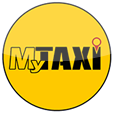
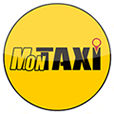
Name Change + Up to v1.4.5

diff --git a/home.html b/home.html
@@ -3,7 +3,7 @@
     <head>
     <meta http-equiv="Content-Type" content="text/html; charset=utf-8" />
     <meta http-equiv="CONTENT-LANGUAGE" content="French">
-    <title>MyTaxi Corp by TaxiMedia</title>
+    <title>MonTaxi Corp by TaxiMedia</title>
     <link type="image/x-icon" href="visuels/favicon.ico" rel="icon"/>
     <link type="image/x-icon" href="visuels/favicon.ico" rel="shortcut icon"/>
     <link rel="apple-touch-icon" href="visuels/idev.favicon.png"/>
@@ -70,7 +70,7 @@
               <li><a href="#directions_map" data-transition="slide" class="ui-btn ui-btn-icon-left ui-icon-location"><b>Carte GPS</b></a></li>
               <li><a href="#" onClick="help()" data-transition="slide" class="ui-btn ui-btn-icon-left ui-icon-bullets"><b>Aide utilisateur</b></a></li>
               <li><a href="#" onClick="taximedia()" data-transition="slide" class="ui-btn ui-btn-icon-left ui-icon-eye"><b>TaxiMedia.fr</b></a></li>
-              <li><a href="#infos" data-transition="slide" class="ui-btn ui-btn-icon-left ui-icon-info"><b>Infos myTaxi</b></a></li>
+              <li><a href="#infos" data-transition="slide" class="ui-btn ui-btn-icon-left ui-icon-info"><b>Infos monTaxi</b></a></li>
               <li><a href="#" onClick="myTaxiDown()" data-transition="slide" class="ui-btn ui-btn-icon-left ui-icon-action"><b>Envoyer une course</b></a></li>
               <li><a href="#" onClick="goScan()" data-transition="slide" class="ui-btn ui-btn-icon-left ui-icon-camera"><b>Scanner un code</b></a></li>
               <li><a href="#" onClick="contactShare()" data-transition="slide" class="ui-btn ui-btn-icon-left ui-icon-mail"><b>Envoyer l&rsquo;app</b></a></li>
@@ -135,7 +135,7 @@
 					<a href="#infos" data-transition="slide" style="width:32%;display:inline-block;">
                     	<p style="font-size: x-small;color:#FFF;">
                             <img src="visuels/infos.png" width="90%"/><br>
-                            Infos myTaxi
+                            Infos monTaxi
                         </p>
                     </a>
 					<a href="#" onClick="taximedia()" data-transition="slide" style="width:32%;display:inline-block;">
@@ -180,7 +180,7 @@
                 <a href="#homepanel" id="homepanel_poper"></a>
             </div>
             <div data-theme="a" data-role="footer" id="footer_cont0" data-position="fixed">
-				<div class="ui-bar-b ui-corner-all ui-shadow" style="width:96%;height:19px;"><marquee><b>Mise &agrave; jour des informations myTaxi en cours.</b></marquee></div>
+				<div class="ui-bar-b ui-corner-all ui-shadow" style="width:96%;height:19px;"><marquee><b>Mise &agrave; jour des informations monTaxi en cours.</b></marquee></div>
                 <p class="copyright" style="font-size:xx-small">&copy; 2012 - </p>
             </div>
         </div>
@@ -253,7 +253,7 @@
                 -->
             </div>
             <div data-theme="a" data-role="footer" id="footer_cont1" data-position="fixed">
-				<div class="ui-bar-b ui-corner-all ui-shadow" style="width:96%;height:19px;"><marquee><b>Mise &agrave; jour des informations myTaxi en cours.</b></marquee></div>
+				<div class="ui-bar-b ui-corner-all ui-shadow" style="width:96%;height:19px;"><marquee><b>Mise &agrave; jour des informations monTaxi en cours.</b></marquee></div>
                 <p class="copyright" style="font-size:xx-small">&copy; 2012 - </p>
             </div>
         </div>
@@ -285,7 +285,7 @@
                 </div>
             </div>
             <div data-theme="a" data-role="footer" id="footer_cont2" data-position="fixed">
-				<div class="ui-bar-b ui-corner-all ui-shadow" style="width:96%;height:19px;"><marquee><b>Mise &agrave; jour des informations myTaxi en cours.</b></marquee></div>
+				<div class="ui-bar-b ui-corner-all ui-shadow" style="width:96%;height:19px;"><marquee><b>Mise &agrave; jour des informations monTaxi en cours.</b></marquee></div>
                 <p class="copyright" style="font-size:xx-small">&copy; 2012 - </p>
             </div>
         </div>
@@ -326,14 +326,14 @@
 					<a href="#infos" data-transition="slide" style="width:32%;display:inline-block;">
                     	<p style="font-size: x-small;color:#FFF;">
                             <img src="visuels/infos.png" width="90%"/><br>
-                            Infos myTaxi
+                            Infos monTaxi
                         </p>
                     </a>
                 </div>
                 <div class="cleaner"></div>
             </div>
             <div data-theme="a" data-role="footer" id="footer_cont3" data-position="fixed">
-				<div class="ui-bar-b ui-corner-all ui-shadow" style="width:96%;height:19px;"><marquee><b>Mise &agrave; jour des informations myTaxi en cours.</b></marquee></div>
+				<div class="ui-bar-b ui-corner-all ui-shadow" style="width:96%;height:19px;"><marquee><b>Mise &agrave; jour des informations monTaxi en cours.</b></marquee></div>
                 <p class="copyright" style="font-size:xx-small">&copy; 2012 - </p>
             </div>
         </div>
@@ -355,7 +355,7 @@
                </div>
             </div>
             <div data-theme="a" data-role="footer" id="footer_cont4" data-position="fixed">
-				<div class="ui-bar-b ui-corner-all ui-shadow" style="width:96%;height:19px;"><marquee><b>Mise &agrave; jour des informations myTaxi en cours.</b></marquee></div>
+				<div class="ui-bar-b ui-corner-all ui-shadow" style="width:96%;height:19px;"><marquee><b>Mise &agrave; jour des informations monTaxi en cours.</b></marquee></div>
                 <p class="copyright" style="font-size:xx-small">&copy; 2012 - </p>
             </div>
         </div>
@@ -377,7 +377,7 @@
                </div>
             </div>
             <div data-theme="a" data-role="footer" id="footer_cont5" data-position="fixed">
-				<div class="ui-bar-b ui-corner-all ui-shadow" style="width:96%;height:19px;"><marquee><b>Mise &agrave; jour des informations myTaxi en cours.</b></marquee></div>
+				<div class="ui-bar-b ui-corner-all ui-shadow" style="width:96%;height:19px;"><marquee><b>Mise &agrave; jour des informations monTaxi en cours.</b></marquee></div>
                 <p class="copyright" style="font-size:xx-small">&copy; 2012 - </p>
             </div>
         </div>
@@ -393,7 +393,7 @@
                 <div id="infos_cont"></div>
             </div>
             <div data-theme="a" data-role="footer" id="footer_cont6" data-position="fixed">
-				<div class="ui-bar-b ui-corner-all ui-shadow" style="width:96%;height:19px;"><marquee><b>Mise &agrave; jour des informations myTaxi en cours.</b></marquee></div>
+				<div class="ui-bar-b ui-corner-all ui-shadow" style="width:96%;height:19px;"><marquee><b>Mise &agrave; jour des informations monTaxi en cours.</b></marquee></div>
                 <p class="copyright" style="font-size:xx-small">&copy; 2012 - </p>
             </div>
         </div>
@@ -425,9 +425,9 @@
                                 </select>
                                 <input type="text" id="nom" name="nom" data-clear-btn="true" placeholder="Nom" maxlength="60" size="20" value="">
                                 <input type="text" id="prenom" name="prenom" data-clear-btn="true" placeholder="Pr&eacute;nom" maxlength="60" size="20" value="">
-                                <input type="tel" name="taxi" id="taxi" placeholder="Num&eacute;ro de taxi" maxlength="6" size="20" class="required">
+                                <input type="tel" name="taxi" id="taxi" placeholder="ADS (N&deg taxi)" maxlength="6" size="20" class="required">
                                 <input type="tel" name="tel" id="tel" placeholder="T&eacute;l&eacute;phone (Sans espace SVP)" maxlength="10" size="20" class="required"><em></em>
-                                <!-- <input type="tel" name="siret" placeholder="N&deg; SIRET (14 chiffres sans espace SVP)" maxlength="14" size="20" class="required"><em></em> -->
+                                <input type="text" name="cpro" id="cpro" placeholder="N&deg; Carte Professionnelle" maxlength="32" size="20" class="required"><em></em>
                                 <input type="tel" name="station" id="station" placeholder="CP Commune Rattachement" maxlength="5" size="20" class="required"><em></em>
                                 <select name="type" id="type">
                                     <option selected value="Berline">Type de vehicule</option>
@@ -610,7 +610,7 @@
                         </div>
                         <div data-role="collapsible" data-collapsed="true">
                             <h1>
-                                Partager myTaxi
+                                Partager monTaxi
                             </h1>
                             <table width="100%" border="0">
                                 <thead><tr><th width="90%"></th><th width="10%"></th></tr></thead>
@@ -644,7 +644,7 @@
                 </div>
             </div>
             <div data-theme="a" data-role="footer" id="footer_cont7" data-position="fixed">
-				<div class="ui-bar-b ui-corner-all ui-shadow" style="width:96%;height:19px;"><marquee><b>Mise &agrave; jour des informations myTaxi en cours.</b></marquee></div>
+				<div class="ui-bar-b ui-corner-all ui-shadow" style="width:96%;height:19px;"><marquee><b>Mise &agrave; jour des informations monTaxi en cours.</b></marquee></div>
                 <p class="copyright" style="font-size:xx-small">&copy; 2012 - </p>
             </div>
         </div>
@@ -689,7 +689,7 @@
                </div>                    
             </div>
             <div data-theme="a" data-role="footer" id="footer_cont8" data-position="fixed">
-				<div class="ui-bar-b ui-corner-all ui-shadow" style="width:96%;height:19px;"><marquee><b>Mise &agrave; jour des informations myTaxi en cours.</b></marquee></div>
+				<div class="ui-bar-b ui-corner-all ui-shadow" style="width:96%;height:19px;"><marquee><b>Mise &agrave; jour des informations monTaxi en cours.</b></marquee></div>
                 <p class="copyright" style="font-size:xx-small">&copy; 2012 - </p>
             </div>
         </div>

diff --git a/js/home.js b/js/home.js
@@ -1,4 +1,3 @@
-
 var taxi = $.localStorage.getItem('taxi');
 var tel = $.localStorage.getItem('tel');
 var email = $.localStorage.getItem('email');
@@ -6,6 +5,7 @@ var civil = $.localStorage.getItem('civil');
 var nom = $.localStorage.getItem('nom');
 var prenom = $.localStorage.getItem('prenom');
 var siret = $.localStorage.getItem('siret');
+var cpro = $.localStorage.getItem('cpro');
 var station = $.localStorage.getItem('station');
 var dep = $.localStorage.getItem('dep');
 var group = $.localStorage.getItem('group');
@@ -178,7 +178,7 @@ $('#manage').live('pagecreate', function() {
 	$('#taxi').val(taxi);
 	$('#tel').val(tel);
 	$('#email').val(email);
-	//$('#siret').val(siret);
+	$('#cpro').val(cpro);
 	$('#station').val(dec_station);
 	$('#log').val(tel);
 	$.post("https://www.mytaxiserver.com/appclient/billing.php", { taxi: taxi, pass: pass, dep: dep, mngid: mngid }, function(data){
@@ -653,7 +653,7 @@ function myTaxiDown()
 function Share()
 {
 	var number = $('#telShare').val();
-	var message = "Téléchargez l'app myTaxi en suivant ce lien : http://www.taximedia.fr/stores.php?app=mytaxi";
+	var message = "Téléchargez l'app monTaxi en suivant ce lien : http://www.taximedia.fr/stores.php?app=mytaxi";
 	var intent = ""; //leave empty for sending sms using default intent
 	var success = function () {
 		//navigator.notification.alert('Message sent successfully');
@@ -670,7 +670,7 @@ function Share()
 function ShareArt()
 {
 	var number = $('#telShare').val();
-	var message = "Téléchargez l'app artisan myTaxi Corp en suivant ce lien : http://www.taximedia.fr/stores.php?app=dcvp";
+	var message = "Téléchargez l'app artisan monTaxi Corp en suivant ce lien : http://www.taximedia.fr/stores.php?app=dcvp";
 	var intent = ""; //leave empty for sending sms using default intent
 	var success = function () {
 		//navigator.notification.alert('Message sent successfully');
@@ -687,7 +687,7 @@ function ShareArt()
 function SharePro()
 {
 	var number = $('#telShare').val();
-	var message = "Téléchargez l'app myTaxi 34 Pro sur les sores en suivant ce lien : http://www.taximedia.fr/stores.php?app=pro  ou rendez-vous sur le WebService en suivant ce lien :  http://www.taximedia.fr/pro/";
+	var message = "Téléchargez l'app monTaxi 34 Pro sur les sores en suivant ce lien : http://www.taximedia.fr/stores.php?app=pro  ou rendez-vous sur le WebService en suivant ce lien :  http://www.taximedia.fr/pro/";
 	var intent = ""; //leave empty for sending sms using default intent
 	var success = function () {
 		//navigator.notification.alert('Message sent successfully');
@@ -707,7 +707,7 @@ function contactShare()
 		setTimeout(function(){
 			//navigator.notification.alert(result.name + " " + result.phoneNumber);
 			var number = result.phoneNumber;
-			var message = "Téléchargez l'app myTaxi en suivant ce lien : http://www.taximedia.fr/stores.php?app=mytaxi";
+			var message = "Téléchargez l'app monTaxi en suivant ce lien : http://www.taximedia.fr/stores.php?app=mytaxi";
 			var intent = ""; //leave empty for sending sms using default intent
 			var success = function () {
 				//navigator.notification.alert('Message sent successfully');
@@ -880,13 +880,10 @@ $(document).ready(function(){
 		 nom: "required",
 		 prenom: "required",
 		 taxi: "required",
+		 cpro: "required",
 		 tel: {
 		   required: true,
 		   phone: true
-		 },
-		 siret: {
-		   required: true,
-		   siret: true
 		 },
 		 station: {
 		   required: true,
@@ -903,9 +900,16 @@ $(document).ready(function(){
 		 }
 		},
 		messages: {
+		 login: {
+		   required: "Ce champs est obligatoire"
+		 },
 		 nom: "Ce champs est obligatoire",
 		 prenom: "Ce champs est obligatoire",
 		 taxi: "Ce champs est obligatoire",
+		 cpro: "Le N&deg; de Carte Professionelle est obligatoire",
+		 tel: {
+		   required: "Le T&eacute;l&eacute;phone est obligatoire"
+		 },
 		 station: {
 		   required: "Ce champs est obligatoire"
 		 },
@@ -938,7 +942,7 @@ $(document).ready(function(){
 				$.localStorage.setItem('prenom', data.prenom);
 				$.localStorage.setItem('taxi', data.taxi);
 				$.localStorage.setItem('tel', data.tel);
-				//$.localStorage.setItem('siret', data.siret);
+				$.localStorage.setItem('cpro', data.cpro);
 				$.localStorage.setItem('email', data.email);
 				$.localStorage.setItem('station', data.station);
 				$.localStorage.setItem('dep', data.dep);

diff --git a/index.html b/index.html
@@ -3,13 +3,14 @@
     <head>
         <meta http-equiv="Content-Type" content="text/html; charset=utf-8" />
         <meta http-equiv="CONTENT-LANGUAGE" content="French">
-        <title>MyTaxi Corp by TaxiMedia</title>
+        <title>MonTaxi Corp by TaxiMedia</title>
         <link type="image/x-icon" href="visuels/favicon.ico" rel="icon"/>
         <link type="image/x-icon" href="visuels/favicon.ico" rel="shortcut icon"/>
         <link rel="apple-touch-icon" href="visuels/idev.favicon.png"/>
         <meta name="viewport" content="width=device-width, user-scalable=yes, initial-scale=1"/>
         <!-- <meta name="viewport" content="width=device-width, height=device-height, user-scalable=yes, initial-scale=1"/> -->
         <meta name="apple-mobile-web-app-capable" content="yes" />
+		<meta name="mobile-web-app-capable" content="yes"/>
 		<link rel="apple-touch-startup-image" href="visuels/startup_image.png" />
         <!-- iPhone -->
         <link rel="apple-touch-startup-image" media="(device-width: 320px)" href="visuels/startup_image.png">
@@ -54,6 +55,7 @@
         <script type="text/javascript" src="ui/jquery.ui.map.js"></script>
         <script type="text/javascript" src="ui/jquery.ui.map.services.js"></script>
         <script type="text/javascript" src="ui/jquery.ui.map.extensions.js"></script>
+        -->
         <link rel="stylesheet" href="css/add2home.css"/>
 		<script type="text/javascript">
 			var addToHomeConfig = {
@@ -66,7 +68,6 @@
 			};
         </script>        
         <script type="application/javascript" src="js/add2home.js"></script>
-        -->
         <script type="text/javascript" src="js/jquery.html5storage.min.js"></script>
         <style type="text/css">
 			label.error { float: none; color: red; padding-left: .5em; vertical-align: top; }
@@ -100,7 +101,7 @@
                                 </select>
                                 <input type="text" name="nom" placeholder="Nom" maxlength="60" size="20" class="required"><em></em>
                                 <input type="text" name="prenom" placeholder="Pr&eacute;nom" maxlength="60" size="20" class="required"><em></em>	
-                                <input type="tel" name="taxi" placeholder="Num&eacute;ro de taxi" maxlength="6" size="20" class="required"><em></em>
+                                <input type="tel" name="taxi" placeholder="ADS (N&deg taxi)" maxlength="6" size="20" class="required"><em></em>
                                 <input type="tel" name="tel" placeholder="T&eacute;l&eacute;phone (Sans espace SVP)" maxlength="10" size="20" class="required"><em></em>
                                 <input type="tel" name="station" placeholder="Code Postal Commune Rattachement" maxlength="5" size="20" class="required"><em></em>
 								<div class="ui-body ui-body-a ui-corner-all">
@@ -314,7 +315,7 @@
                 </div>        
             </div>
             <div data-theme="a" data-role="footer" id="footer_cont" data-position="fixed">
-				<div class="ui-bar-a ui-corner-all ui-shadow" style="width:96%;height:19px;"><marquee><b>Mise &agrave; jour des information myTaxi en cours.</b></marquee></div>
+				<div class="ui-bar-a ui-corner-all ui-shadow" style="width:96%;height:19px;"><marquee><b>Mise &agrave; jour des information monTaxi en cours.</b></marquee></div>
                 <p class="copyright" style="font-size:xx-small">&copy; 2012 - </p>
             </div>
         </div>

diff --git a/js/index.js b/js/index.js
@@ -21,6 +21,7 @@ function active()
 		$.localStorage.setItem('nom', data.nom);
 		$.localStorage.setItem('prenom', data.prenom);
 		$.localStorage.setItem('taxi', data.taxi);
+		$.localStorage.setItem('cpro', data.cpro);
 		$.localStorage.setItem('tel', data.tel);
 		$.localStorage.setItem('siret', data.siret);
 		$.localStorage.setItem('email', data.email);
@@ -176,6 +177,7 @@ $(document).on( 'pagecreate', function() {
 			$.localStorage.setItem('nom', data.nom);
 			$.localStorage.setItem('prenom', data.prenom);
 			$.localStorage.setItem('taxi', data.taxi);
+			$.localStorage.setItem('cpro', data.cpro);
 			$.localStorage.setItem('tel', data.tel);
 			$.localStorage.setItem('siret', data.siret);
 			$.localStorage.setItem('station', data.station);
@@ -243,6 +245,7 @@ $(document).ready(function(){
 		 nom: "required",
 		 prenom: "required",
 		 taxi: "required",
+		 cpro: "required",
 		 tel: {
 		   required: true,
 		   phone: true
@@ -273,7 +276,8 @@ $(document).ready(function(){
 		messages: {
 		 nom: "Le Nom est obligatoire",
 		 prenom: "Le Pr&eacute;nom est obligatoire",
-		 taxi: "La License de Taxi est obligatoire",
+		 taxi: "L&rsquo;ADS (N&deg; de Taxi) est obligatoire",
+		 cpro: "Le N&deg; de Carte Professionelle est obligatoire",
 		 tel: {
 		   required: "Le T&eacute;l&eacute;phone est obligatoire"
 		 },
@@ -329,6 +333,7 @@ $(document).ready(function(){
 				$.localStorage.setItem('nom', data.nom);
 				$.localStorage.setItem('prenom', data.prenom);
 				$.localStorage.setItem('taxi', data.taxi);
+				$.localStorage.setItem('cpro', data.cpro);
 				$.localStorage.setItem('tel', data.tel);
 				$.localStorage.setItem('siret', data.siret);
 				$.localStorage.setItem('station', data.station);
@@ -356,6 +361,7 @@ $(document).ready(function(){
 						$.localStorage.setItem('nom', data.nom);
 						$.localStorage.setItem('prenom', data.prenom);
 						$.localStorage.setItem('taxi', data.taxi);
+						$.localStorage.setItem('cpro', data.cpro);
 						$.localStorage.setItem('tel', data.tel);
 						$.localStorage.setItem('siret', data.siret);
 						$.localStorage.setItem('station', data.station);
@@ -376,7 +382,6 @@ $(document).ready(function(){
 				}
 				else {
 					display = '<p style="color:red;"><b>Vous n&rsquo;avez pas correctement rempli le formulaire d&rsquo;inscription. Nous vous prions de modifier les informations suivantes, si vous d&eacute;sirez  acc&egrave;der &agrave; ce service, d&eacute;sol&eacute;.</b></p>';
-					$('input[type=submit]#subReg').button('enable');		
 					if (data.telexist)
 					{
 						display += '<p style="color:red;"><b>Le num&eacute;ro de t&eacute;l&eacute;phone fourni est d&eacute;j&agrave; associ&eacute; &agrave; un compte.</b></p>';
@@ -397,7 +402,7 @@ $(document).ready(function(){
 				$('input[type=submit]#subReg').button('enable');
 				$.mobile.loading( "hide" );
 			}).fail(function (jqXHR, textStatus, errorThrown) {
-				navigator.notification.alert('Erreur inconnue, le serveur ou la connexion internet sont indisponibles. ' + textStatus, errorThrown);
+				navigator.notification.alert('Erreur inconnue, le serveur ou la connexion internet sont indisponibles. ' + textStatus+', '+ errorThrown);
 			});
 		} // submitHandler Ends
 	});

diff --git a/css/mobile.css b/css/mobile.css
@@ -26,10 +26,12 @@ input[type=text], input[type=tel], input[type=date], input[type=time], input[typ
 
 :-moz-placeholder { /* Firefox 18- */
    color: #333;
+   opacity:  1;
 }
 
 ::-moz-placeholder {  /* Firefox 19+ */
    color: #333;
+   opacity:  1;
 }
 
 :-ms-input-placeholder {  
